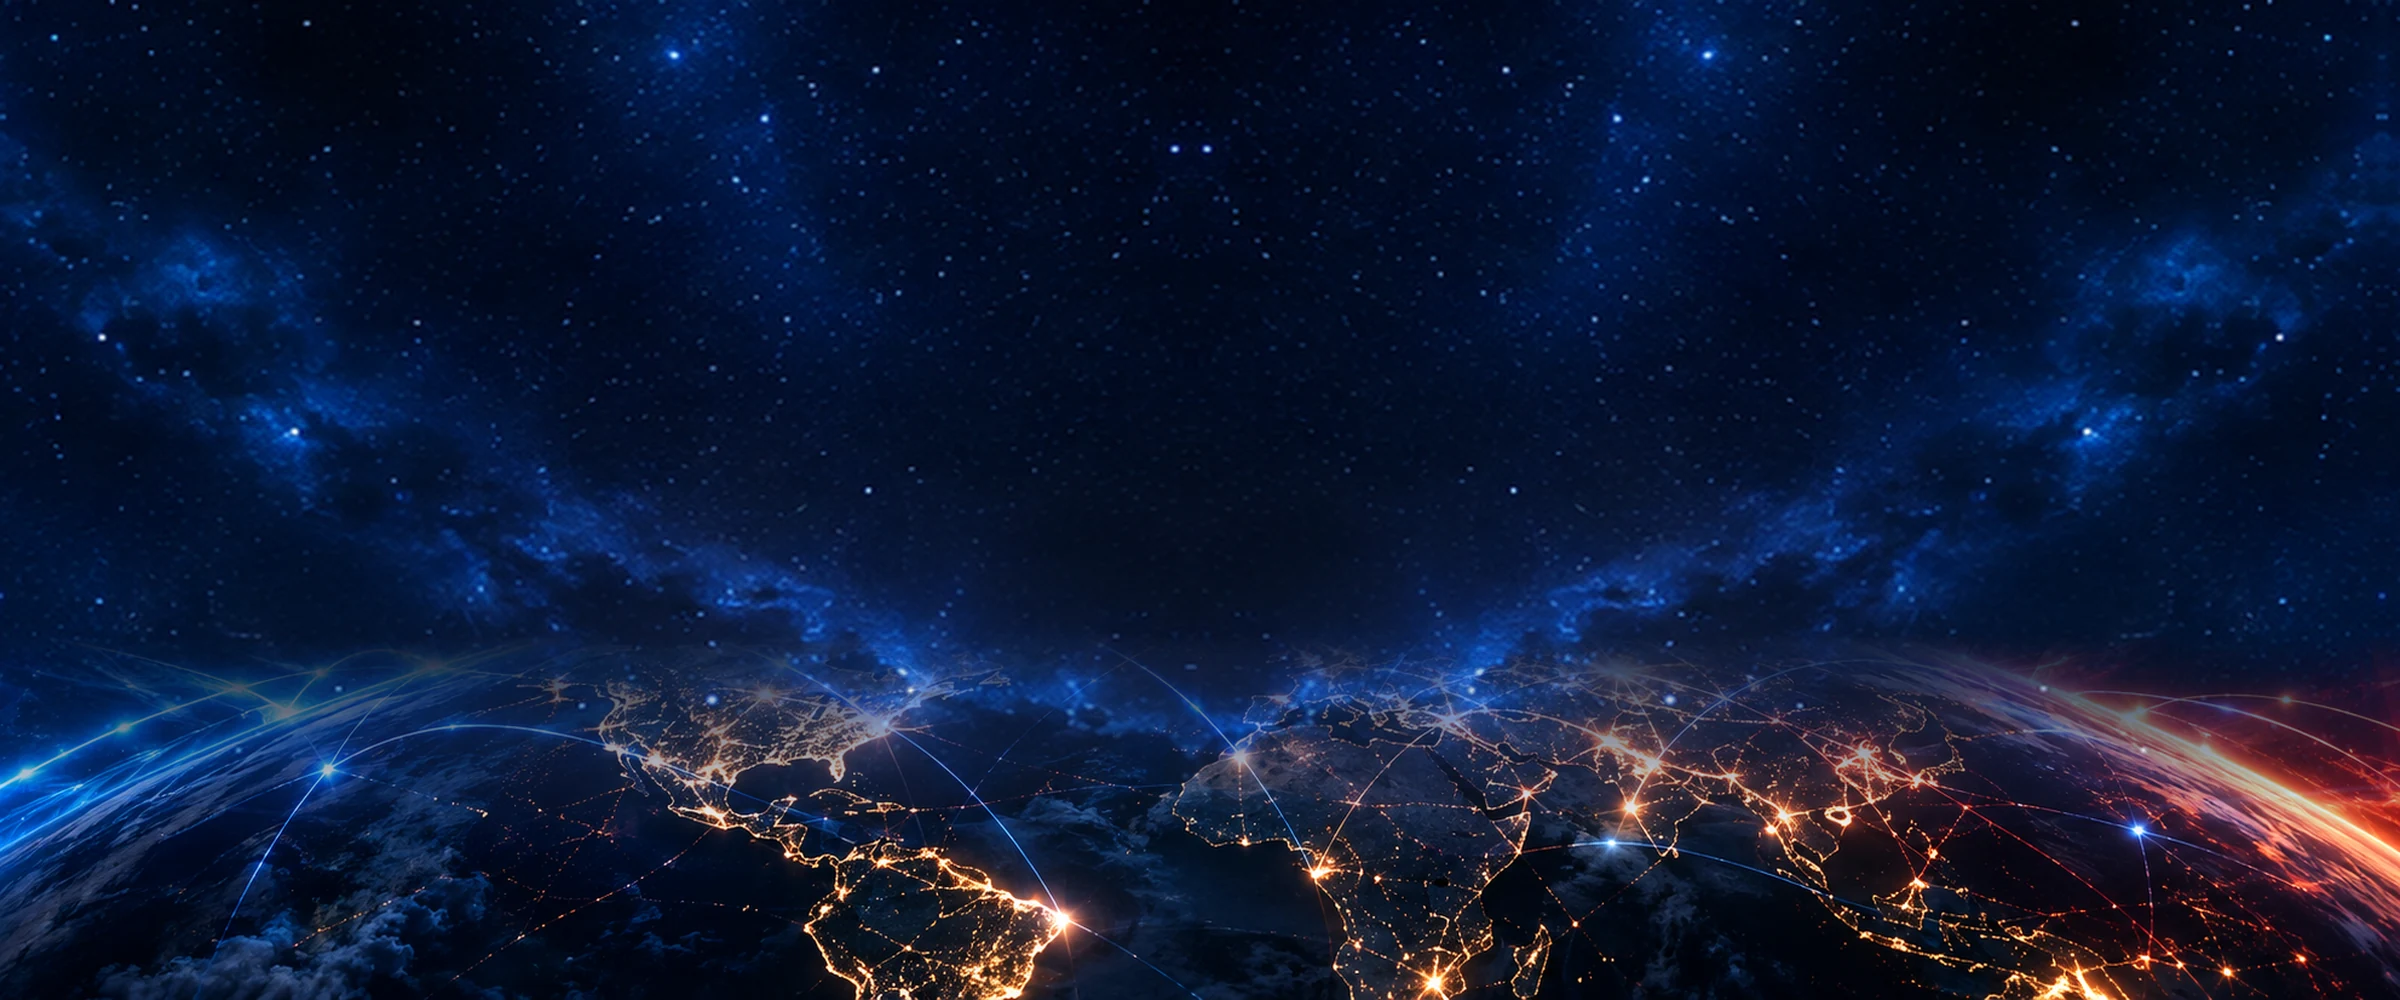
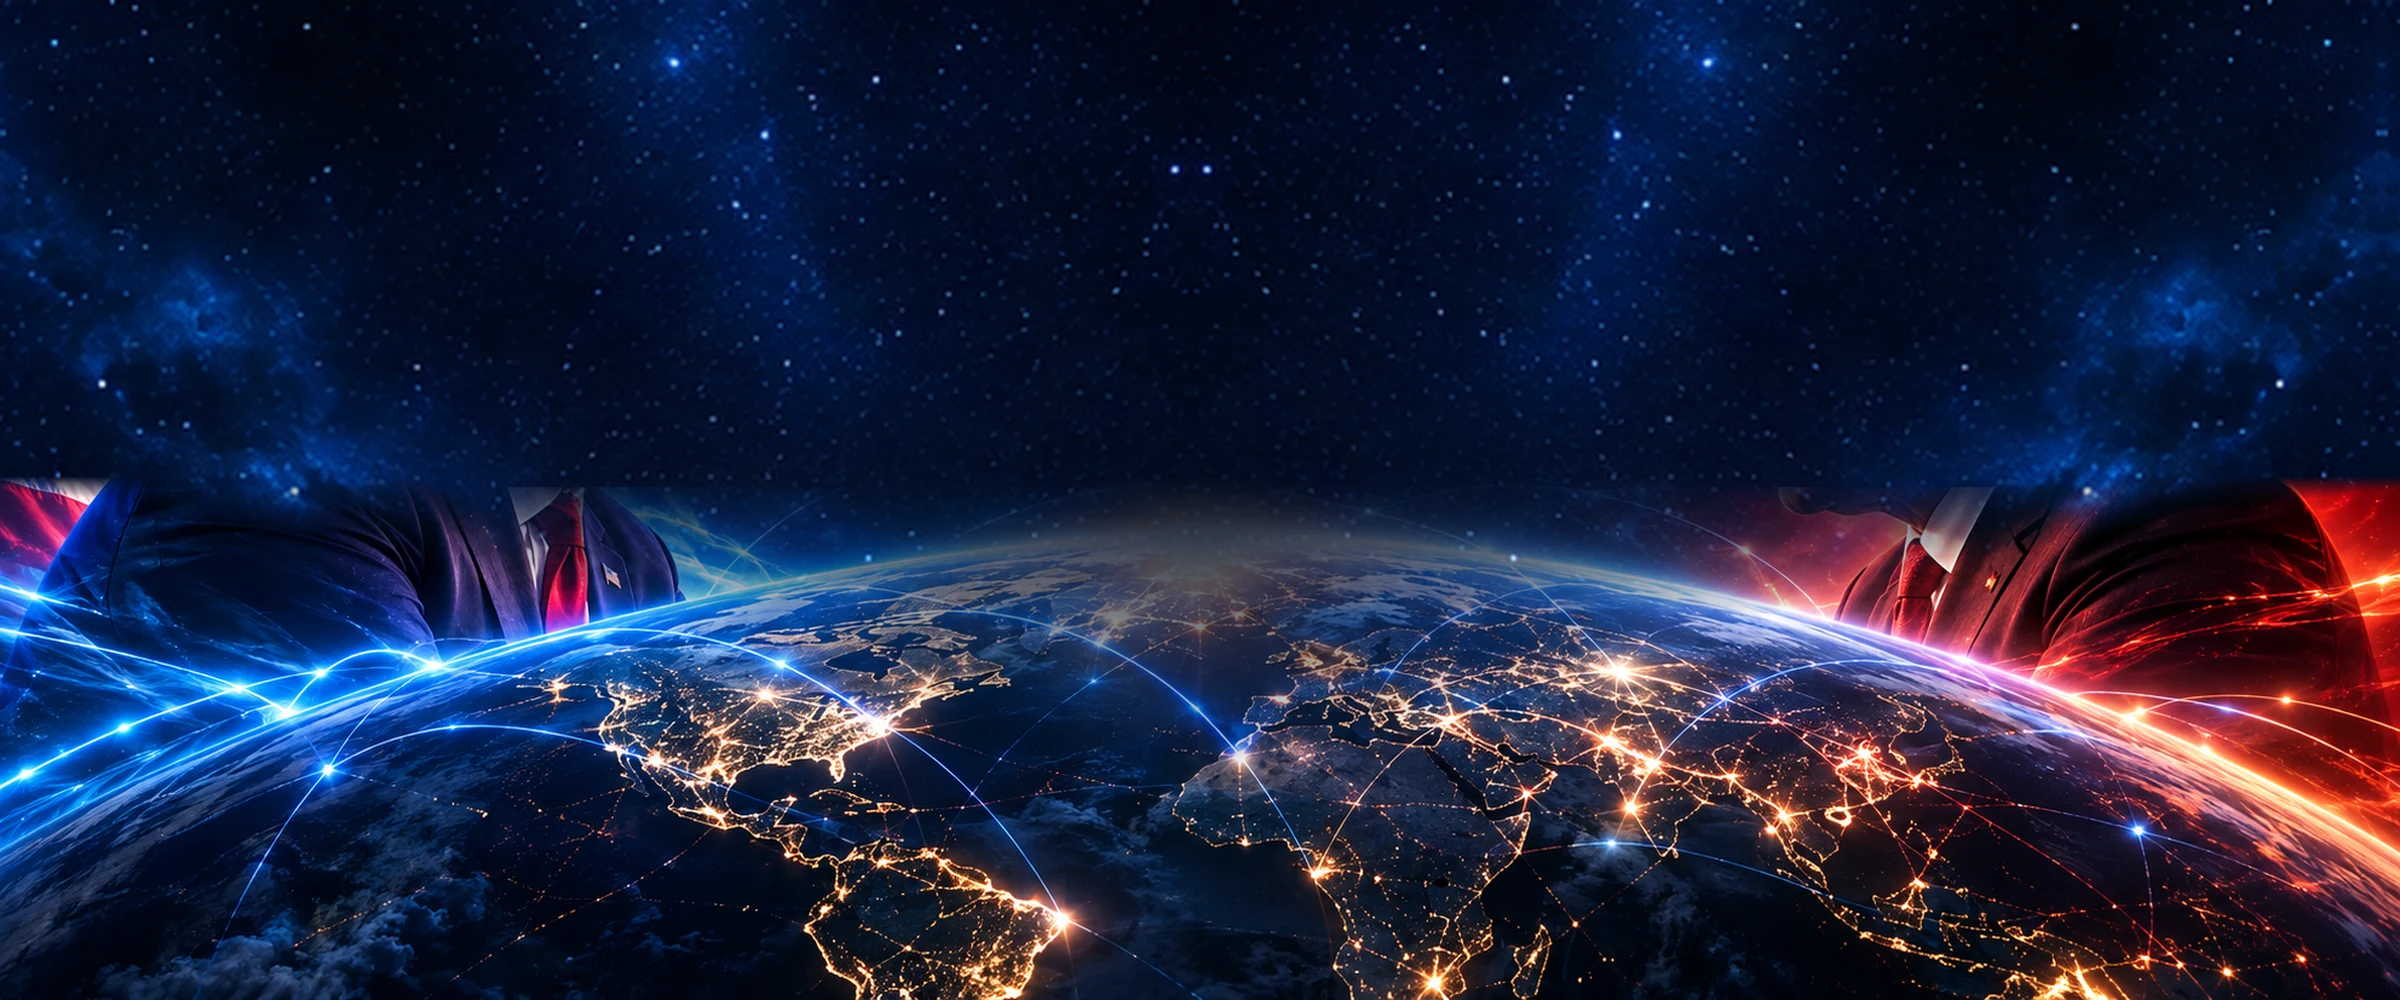
Hero from the masked header: shoulders, ties and both flags, no heads
The enlarged masks cover the heads completely, so what identified anyone is gone — what remains is a suit and red tie under a US flag facing a suit and red tie under a Chinese flag, which is the two-power framing rather than a portrait of anyone.

The painted boxes themselves are not shown. Inpainting them left smears and softening them still read as bars, so the hero is composited instead: the starfield from the column between the figures (clear of both boxes), mirror-tiled to full width, with the band BELOW the masks feathered in under it. The feather length varies across the image — 14px at the edges so the shoulders and flags stay solid, 325px in the centre so there is no seam through the sky. A uniform feather gave one or the other, never both.

A scrim under the hero copy: the Earth's city lights run straight through the kicker and a drop shadow alone could not carry it.

Claude-Session: https://claude.ai/code/session_01JiDNURMsycteH89TtfHaCu

diff --git a/index.html b/index.html
@@ -49,10 +49,10 @@
 
      The ?v= is what makes a browser let go of the icon it has cached;
      node scripts/stamp.mjs moves all of them together. -->
-<link rel="icon" href="favicon.ico?v=15" sizes="any">
-<link rel="icon" type="image/png" href="images/favicon.png?v=15">
-<link rel="apple-touch-icon" href="images/apple-touch-icon.png?v=15">
-<link rel="manifest" href="site.webmanifest?v=15">
+<link rel="icon" href="favicon.ico?v=17" sizes="any">
+<link rel="icon" type="image/png" href="images/favicon.png?v=17">
+<link rel="apple-touch-icon" href="images/apple-touch-icon.png?v=17">
+<link rel="manifest" href="site.webmanifest?v=17">
 
 <!-- One face — Inter — across five weights. 800 is not decoration: the
      headings and the wordmark are set in it, and asking for a weight the file
@@ -70,7 +70,7 @@
       media="print" onload="this.media='all'">
 <noscript><link rel="stylesheet" href="https://fonts.googleapis.com/css2?family=Inter:wght@400;500;600;700;800&display=swap"></noscript>
 
-<link rel="stylesheet" href="assets/css/styles.css?v=15">
+<link rel="stylesheet" href="assets/css/styles.css?v=17">
 </head>
 <body>
 
@@ -79,7 +79,7 @@
   <div class="topbar__in">
 
     <a class="lockup" href="#top">
-      <img class="lockup__mark" src="images/si_mark.webp?v=15" alt=""
+      <img class="lockup__mark" src="images/si_mark.webp?v=17" alt=""
            width="1000" height="500" decoding="async">
       <span class="lockup__name">Super Intelligence Race</span>
     </a>
@@ -149,11 +149,11 @@
        horizontal streaks), with the real, undistorted full-width Earth band
        feathered across the bottom. No part of either figure is in it.
        See images/src/README.md for the derivation. -->
-  <img class="hero__bg" src="images/hero_scene.webp?v=15" alt=""
+  <img class="hero__bg" src="images/hero_scene.webp?v=17" alt=""
        width="2400" height="1000" fetchpriority="high" decoding="async">
 
   <div class="hero__copy">
-    <img class="hero__mark" src="images/si_mark.webp?v=15"
+    <img class="hero__mark" src="images/si_mark.webp?v=17"
          alt="Super Intelligence"
          width="1000" height="500" fetchpriority="high" decoding="async">
     <h1 class="hero__title">Super<br>Intelligence<br>Race</h1>
@@ -418,7 +418,7 @@
        object-fit: cover crops silently and a squarer box here would keep the
        middle 60% and throw both flags away. -->
   <div class="foot__band" aria-hidden="true">
-    <img class="foot__bandimg" src="images/footer_band.webp?v=15" alt=""
+    <img class="foot__bandimg" src="images/footer_band.webp?v=17" alt=""
          width="1920" height="260" loading="lazy" decoding="async">
   </div>
 
@@ -431,13 +431,13 @@
              which on this ground is invisible. images/src/README.md carries the
              derivation — the greyscale pixels have their LUMINANCE inverted, so
              the antialiasing survives, and the blue/green badge is untouched. -->
-        <img class="eco__logo eco__logo--stonks" src="images/stonkex_button_light.png?v=15" alt="Stonks Exchange" width="550" height="112" loading="lazy" decoding="async">
+        <img class="eco__logo eco__logo--stonks" src="images/stonkex_button_light.png?v=17" alt="Stonks Exchange" width="550" height="112" loading="lazy" decoding="async">
         <span class="eco__sub">1B supply launches · creator fee integration</span>
       </a>
 
       <a class="eco__half" id="link-rewards" href="https://www.stockify.finance/" target="_blank" rel="noopener noreferrer">
         <span class="eco__kicker">Holder rewards powered by</span>
-        <img class="eco__logo" src="images/stockify_logo.png?v=15" alt="Stockify" width="800" height="261" loading="lazy" decoding="async">
+        <img class="eco__logo" src="images/stockify_logo.png?v=17" alt="Stockify" width="800" height="261" loading="lazy" decoding="async">
         <span class="eco__sub">tokenized equities · automated holder distributions</span>
       </a>
 
@@ -526,9 +526,9 @@
 <!-- ?v= is the cache buster: run `node scripts/stamp.mjs` on every deploy,
      which moves every ?v= here and `version` in config.js together. Skip it
      and a CDN keeps serving the previous config.js and app.js. -->
-<script src="config.js?v=15"></script>
-<script src="assets/js/quotes.js?v=15"></script>
-<script src="assets/js/app.js?v=15"></script>
-<script src="assets/js/page.js?v=15"></script>
+<script src="config.js?v=17"></script>
+<script src="assets/js/quotes.js?v=17"></script>
+<script src="assets/js/app.js?v=17"></script>
+<script src="assets/js/page.js?v=17"></script>
 </body>
 </html>

diff --git a/assets/css/styles.css b/assets/css/styles.css
@@ -211,7 +211,14 @@ h1, h2, h3 { margin: 0; line-height: 1.12; letter-spacing: -.02em; }
   z-index: 1; pointer-events: none;
 }
 
-.hero__copy { position: relative; z-index: 2; }
+/* A soft scrim under the type only. The Earth's city lights run right through
+   where the kicker sits, and at 12px letterspaced it was unreadable against
+   them; a drop shadow alone was not enough over the bright limb. */
+.hero__copy {
+  position: relative; z-index: 2;
+  padding: 10px 26px 16px;
+  background: radial-gradient(60% 70% at 50% 58%, rgba(1,13,41,.72) 0%, rgba(1,13,41,0) 100%);
+}
 
 .hero__mark {
   width: clamp(150px, 19vw, 280px);
@@ -244,8 +251,8 @@ h1, h2, h3 { margin: 0; line-height: 1.12; letter-spacing: -.02em; }
   margin: 11px 0 0;
   font-size: clamp(10px, 1.1vw, 12px);
   font-weight: 600; letter-spacing: .26em; text-transform: uppercase;
-  color: var(--ink-2);
-  text-shadow: 0 1px 12px rgba(1,13,41,.9);
+  color: var(--ink);
+  text-shadow: 0 1px 3px rgba(1,13,41,1), 0 2px 16px rgba(1,13,41,.95);
 }
 
 /* ==========================================================================

diff --git a/config.js b/config.js
@@ -22,7 +22,7 @@ window.SITE_CONFIG = {
      a browser actually has rather than guessing at a cache. Bump it together
      with the ?v= on the script tags in index.html whenever you deploy —
      `node scripts/stamp.mjs` moves all of them at once. */
-  version: '15',
+  version: '17',
 
   /* ---- Token ---------------------------------------------------------- */
 
